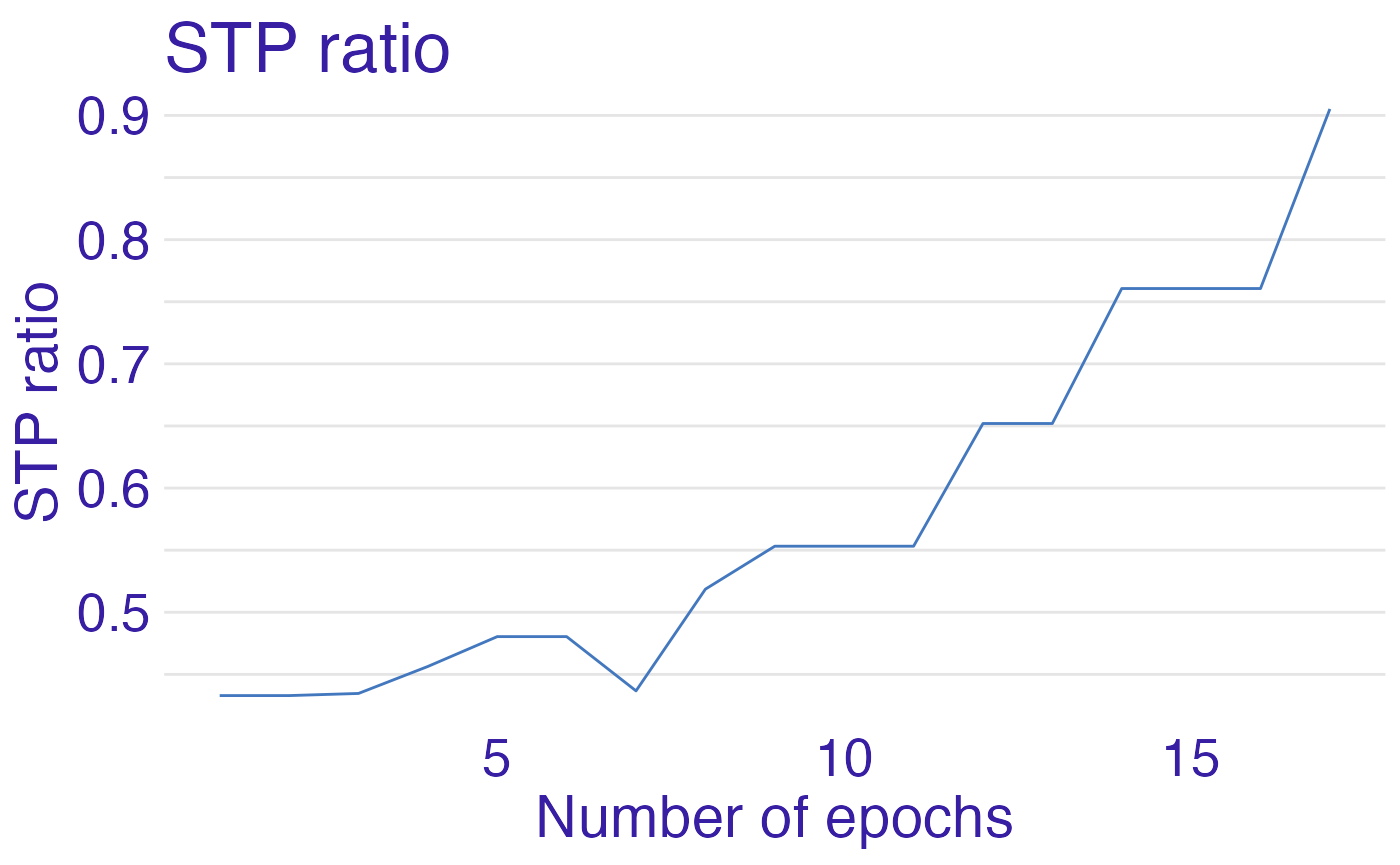
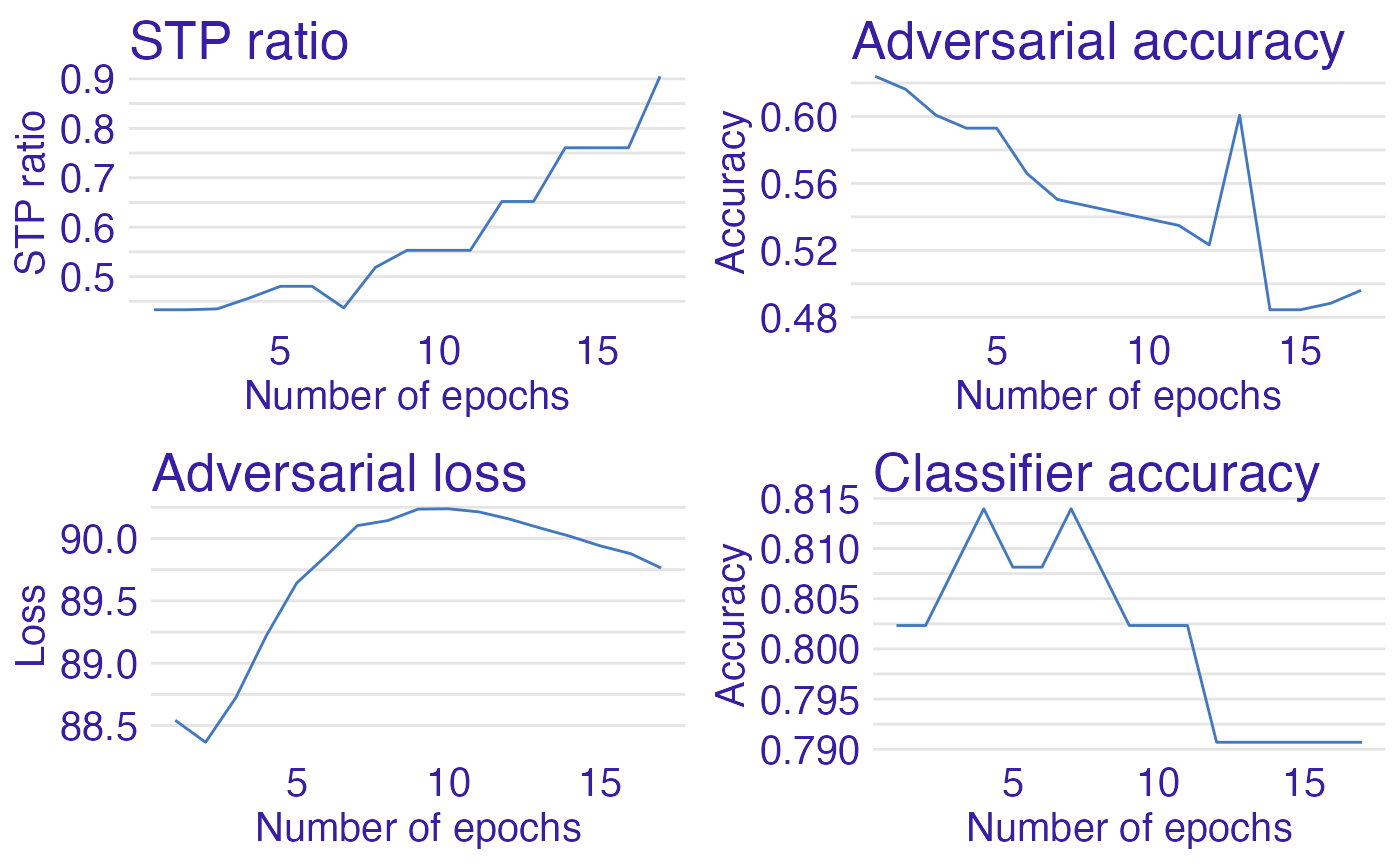
Built site for fairpan: 0.1.0@5d4dbe0

diff --git a/reference/plot_monitor.html b/reference/plot_monitor.html
@@ -150,7 +150,8 @@ To use this, the user has to set monitor on during the fair_train process.</p>
   STP <span class='op'>=</span> <span class='cn'>NULL</span>,
   adversary_acc <span class='op'>=</span> <span class='cn'>NULL</span>,
   adversary_losses <span class='op'>=</span> <span class='cn'>NULL</span>,
-  classifier_acc <span class='op'>=</span> <span class='cn'>NULL</span>
+  classifier_acc <span class='op'>=</span> <span class='cn'>NULL</span>,
+  patchwork <span class='op'>=</span> <span class='cn'>TRUE</span>
 <span class='op'>)</span></pre>
 
     <h2 class="hasAnchor" id="arguments"><a class="anchor" href="#arguments"></a>Arguments</h2>
@@ -173,6 +174,11 @@ for each epoch</p></td>
       <th>classifier_acc</th>
       <td><p>double, vector of adversaries accuracy</p></td>
     </tr>
+    <tr>
+      <th>patchwork</th>
+      <td><p>logical, if TRUE it plots all 4 plots into 2x2 matrix, with FALSE
+plots every plot singularly</p></td>
+    </tr>
     </table>
 
     <h2 class="hasAnchor" id="value"><a class="anchor" href="#value"></a>Value</h2>
@@ -182,11 +188,7 @@ for each epoch</p></td>
     <h2 class="hasAnchor" id="examples"><a class="anchor" href="#examples"></a>Examples</h2>
     <pre class="examples"><div class='input'>
 <span class='co'># presaved monitoring data</span>
-<span class='va'>monitor2</span> <span class='op'>&lt;-</span> <span class='fu'>torch_load</span><span class='op'>(</span><span class='fu'><a href='https://rdrr.io/r/base/system.file.html'>system.file</a></span><span class='op'>(</span><span class='st'>"extdata"</span>,<span class='st'>"monitoring2"</span>,package<span class='op'>=</span><span class='st'>"fairpan"</span><span class='op'>)</span><span class='op'>)</span>
 
-<span class='fu'>plot_monitor</span><span class='op'>(</span><span class='va'>monitor2</span><span class='op'>$</span><span class='va'>STP</span> ,<span class='va'>monitor2</span><span class='op'>$</span><span class='va'>adversary_acc</span>, <span class='va'>monitor2</span><span class='op'>$</span><span class='va'>classifier_acc</span>,
-             <span class='va'>monitor2</span><span class='op'>$</span><span class='va'>adversary_losses</span><span class='op'>)</span>
-</div><div class='img'><img src='plot_monitor-1.png' alt='' width='700' height='433' /></div><div class='img'><img src='plot_monitor-2.png' alt='' width='700' height='433' /></div><div class='img'><img src='plot_monitor-3.png' alt='' width='700' height='433' /></div><div class='img'><img src='plot_monitor-4.png' alt='' width='700' height='433' /></div><div class='input'>
 </div></pre>
   </div>
   <div class="col-md-3 hidden-xs hidden-sm" id="pkgdown-sidebar">

diff --git a/articles/Tutorial.html b/articles/Tutorial.html
@@ -555,7 +555,7 @@
              adversary_acc <span class="op">=</span> <span class="va">monitor</span><span class="op">$</span><span class="va">adversary_acc</span>,              <span class="co"># monitor for adversaries accuracy</span>
              adversary_losses <span class="op">=</span> <span class="va">monitor</span><span class="op">$</span><span class="va">adversary_losses</span>,        <span class="co"># monitor for adversaries loss</span>
              classifier_acc <span class="op">=</span> <span class="va">monitor</span><span class="op">$</span><span class="va">classifier_acc</span><span class="op">)</span>            <span class="co"># monitor for classifiers accuracy</span></code></pre></div>
-<p><img src="Tutorial_files/figure-html/plot_monitor-1.png" width="700"><img src="Tutorial_files/figure-html/plot_monitor-2.png" width="700"><img src="Tutorial_files/figure-html/plot_monitor-3.png" width="700"><img src="Tutorial_files/figure-html/plot_monitor-4.png" width="700"></p>
+<p><img src="Tutorial_files/figure-html/plot_monitor-1.png" width="700"></p>
 <p>As fairness is closely connected with XAI, we also propose an option to create an explainer for our neural network models with <code>explain_pan</code> which is <code><a href="https://dalex.drwhy.ai/reference/explain.html">DALEX::explain</a></code> function with proper adjustments for neural network models.</p>
 <div class="sourceCode" id="cb41"><pre class="downlit sourceCode r">
 <code class="sourceCode R"><span class="va">exp_PAN</span> <span class="op">&lt;-</span> <span class="fu"><a href="../reference/explain_pan.html">explain_pan</a></span><span class="op">(</span>y <span class="op">=</span> <span class="va">data</span><span class="op">$</span><span class="va">test_y</span>,                          <span class="co"># test target</span>

diff --git a/index.html b/index.html
@@ -120,9 +120,9 @@
 <h3 class="hasAnchor">
 <a href="#custom-loss-function" class="anchor"></a>Custom Loss Function</h3>
 <p>The crucial part of this model is the metric we use to engage the two models into a zero-sum game. This is captured by the following objective function:</p>
-<p><img src="./man/images/equation.png">{width=50%}</p>
+<p><img src="./man/images/equation.png"></p>
 <p>So, it learns to minimize its prediction losses while maximizing that of the adversarial (due to lambda being positive and minimizing a negated loss is the same as maximizing it). The objective during the game is simpler for the adversarial: predict sex based on the income level predictions of the classifier. This is captured in the following objective function:</p>
-<p><img src="./man/images/equation2.png">{width=30%}</p>
+<p><img src="./man/images/equation2.png"></p>
 <p>The adversarial does not care about the prediction accuracy of the classifier. It is only concerned with minimizing its prediction losses. Firstly we pretrain classifier and adversarial. Later we begin the proper PAN training with both networks: we train the adversarial, provide its loss to the classifier, and after that, we train the classifier. This method shall lead us to fair predictions of the FairPAN model.</p>
 </div>
 </div>
@@ -142,7 +142,7 @@
 <a href="#example" class="anchor"></a>Example</h2>
 <p>Achieve fairness and save performance!</p>
 <pre><code><a href="https://rdrr.io/r/base/library.html">
-library(FairPAN)
+library(fairpan)
 
 adult &lt;- fairmodels::adult
 
